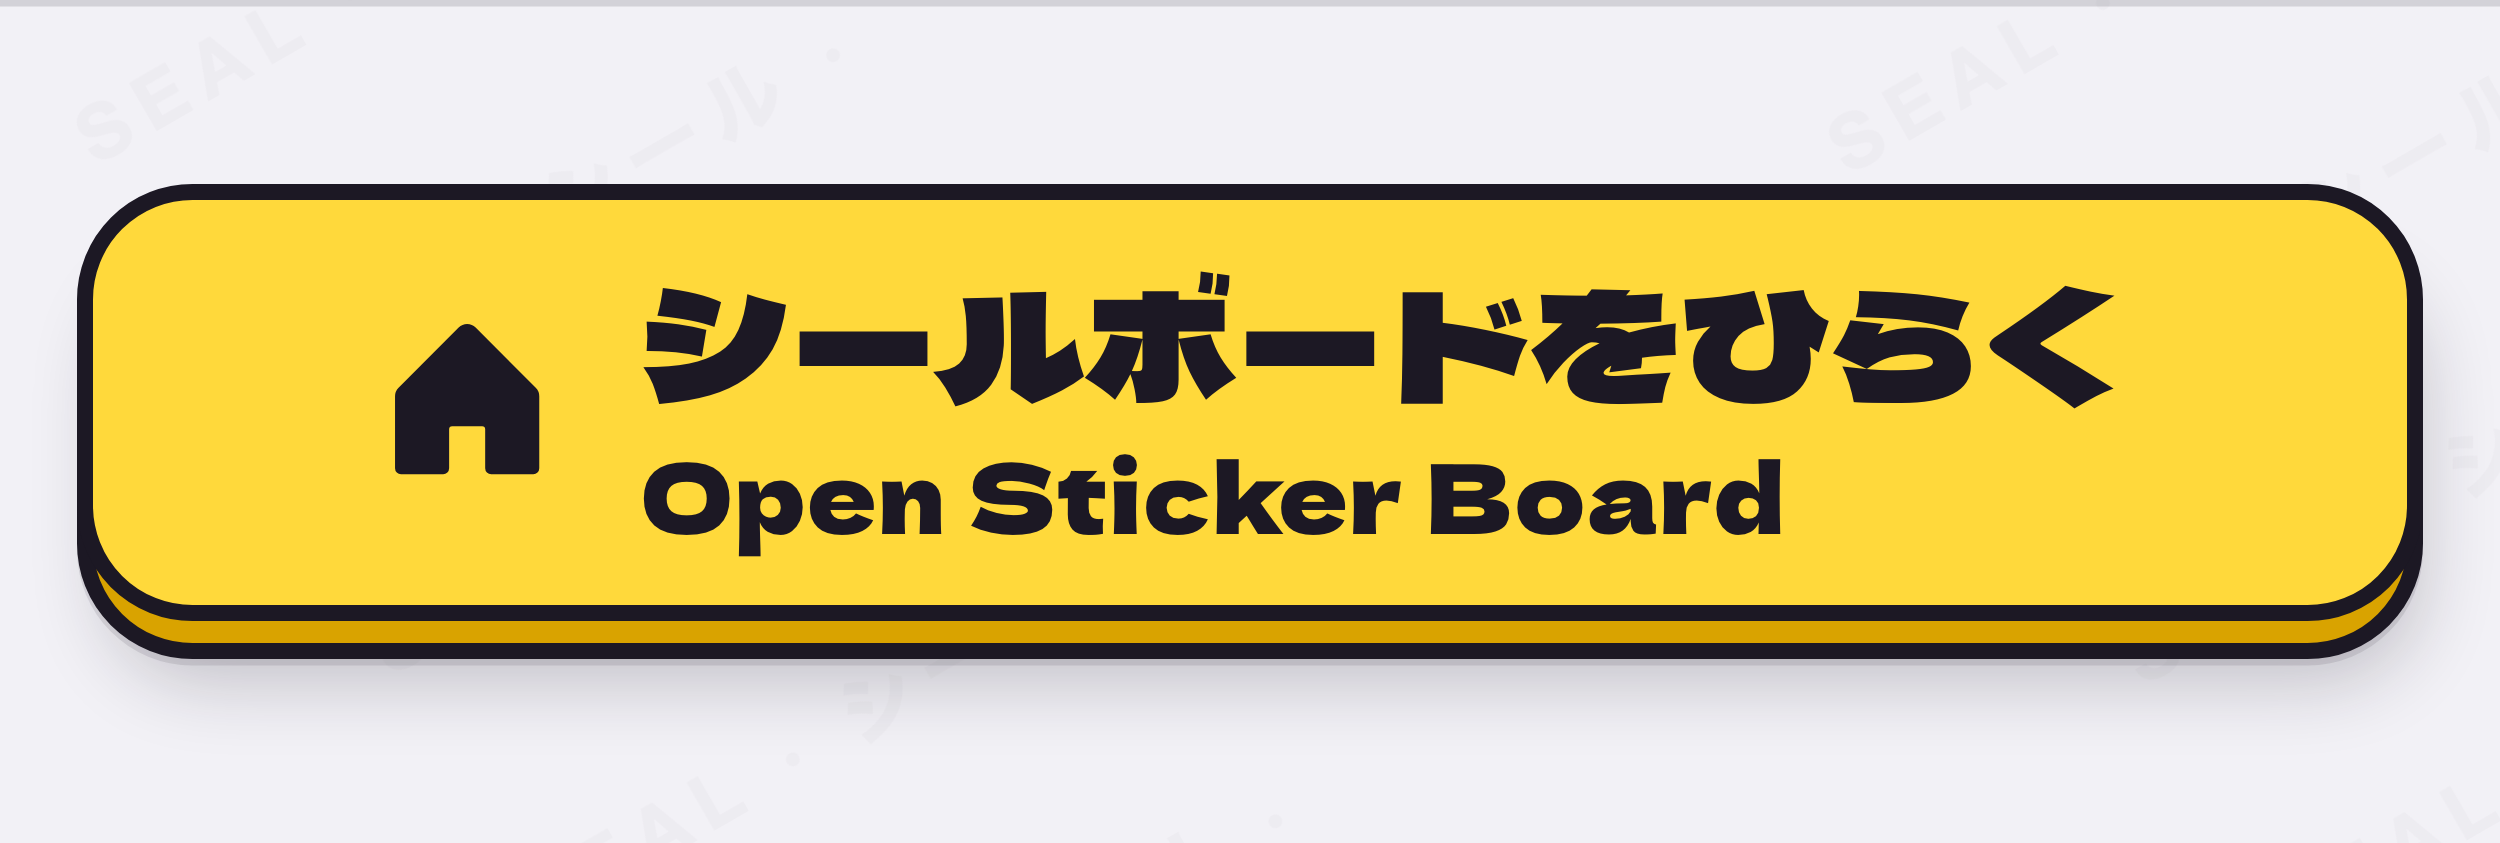
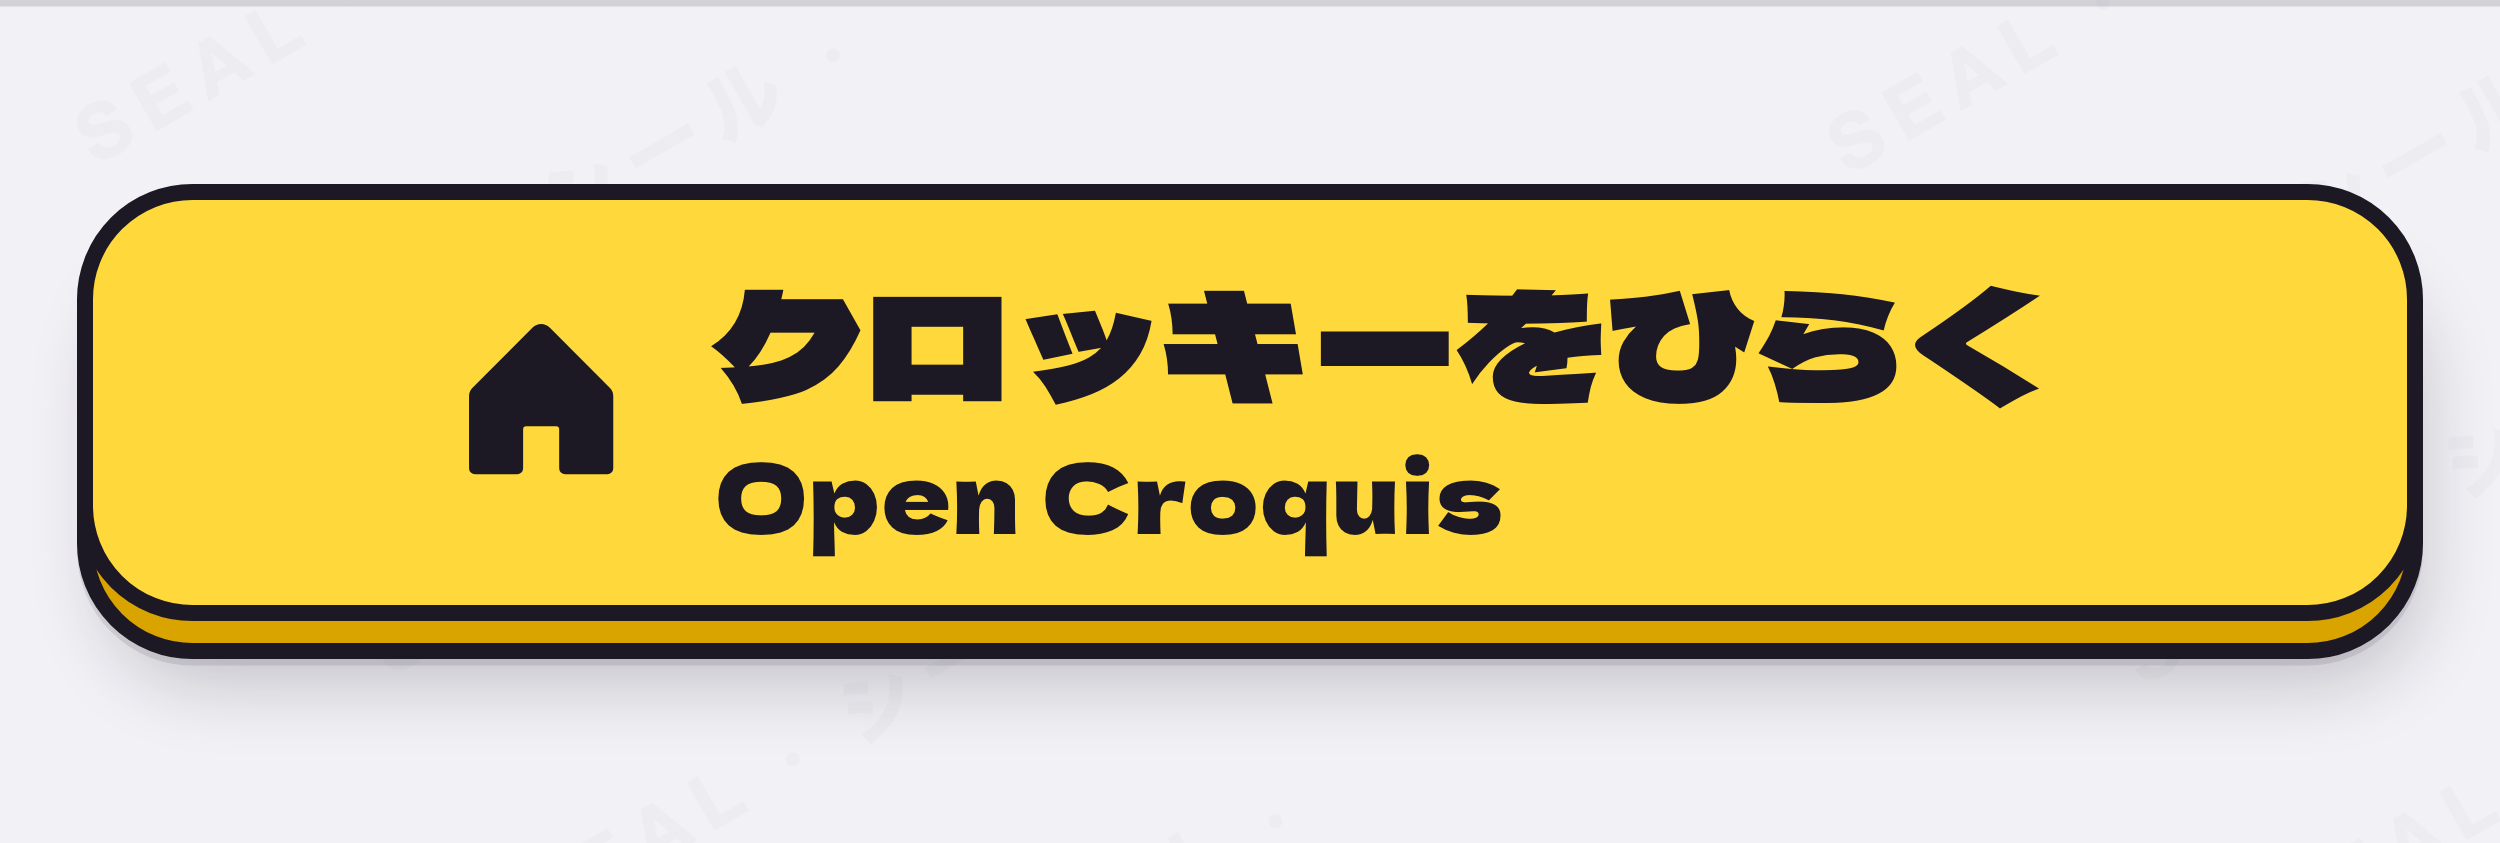
fix(line): the default chat menu's key opens Croquis, by the app's name
The key new people see said シールボードをひらく / Open Sticker Board, naming the app after a
person's board. It says クロッキーをひらく / Open Croquis, as the chat bar and the greeting do. LINE
can't replace a menu's image, so this is a new default menu, recorded in menus.json.

Changed region(s): [[0.156, 0.3084, 0.8424, 0.6785]]

diff --git a/deploy/line/returning-menu.html b/deploy/line/returning-menu.html
@@ -265,8 +265,7 @@
         <span class="key key--seal key--lg"
           ><i data-icon="open"></i
           ><span class="open-words"
-            ><span lang="ja">シールボードをひらく</span
-            ><span lang="en">Open Sticker Board</span></span
+            ><span lang="ja">クロッキーをひらく</span><span lang="en">Open Croquis</span></span
           ></span
         >
       </div>
